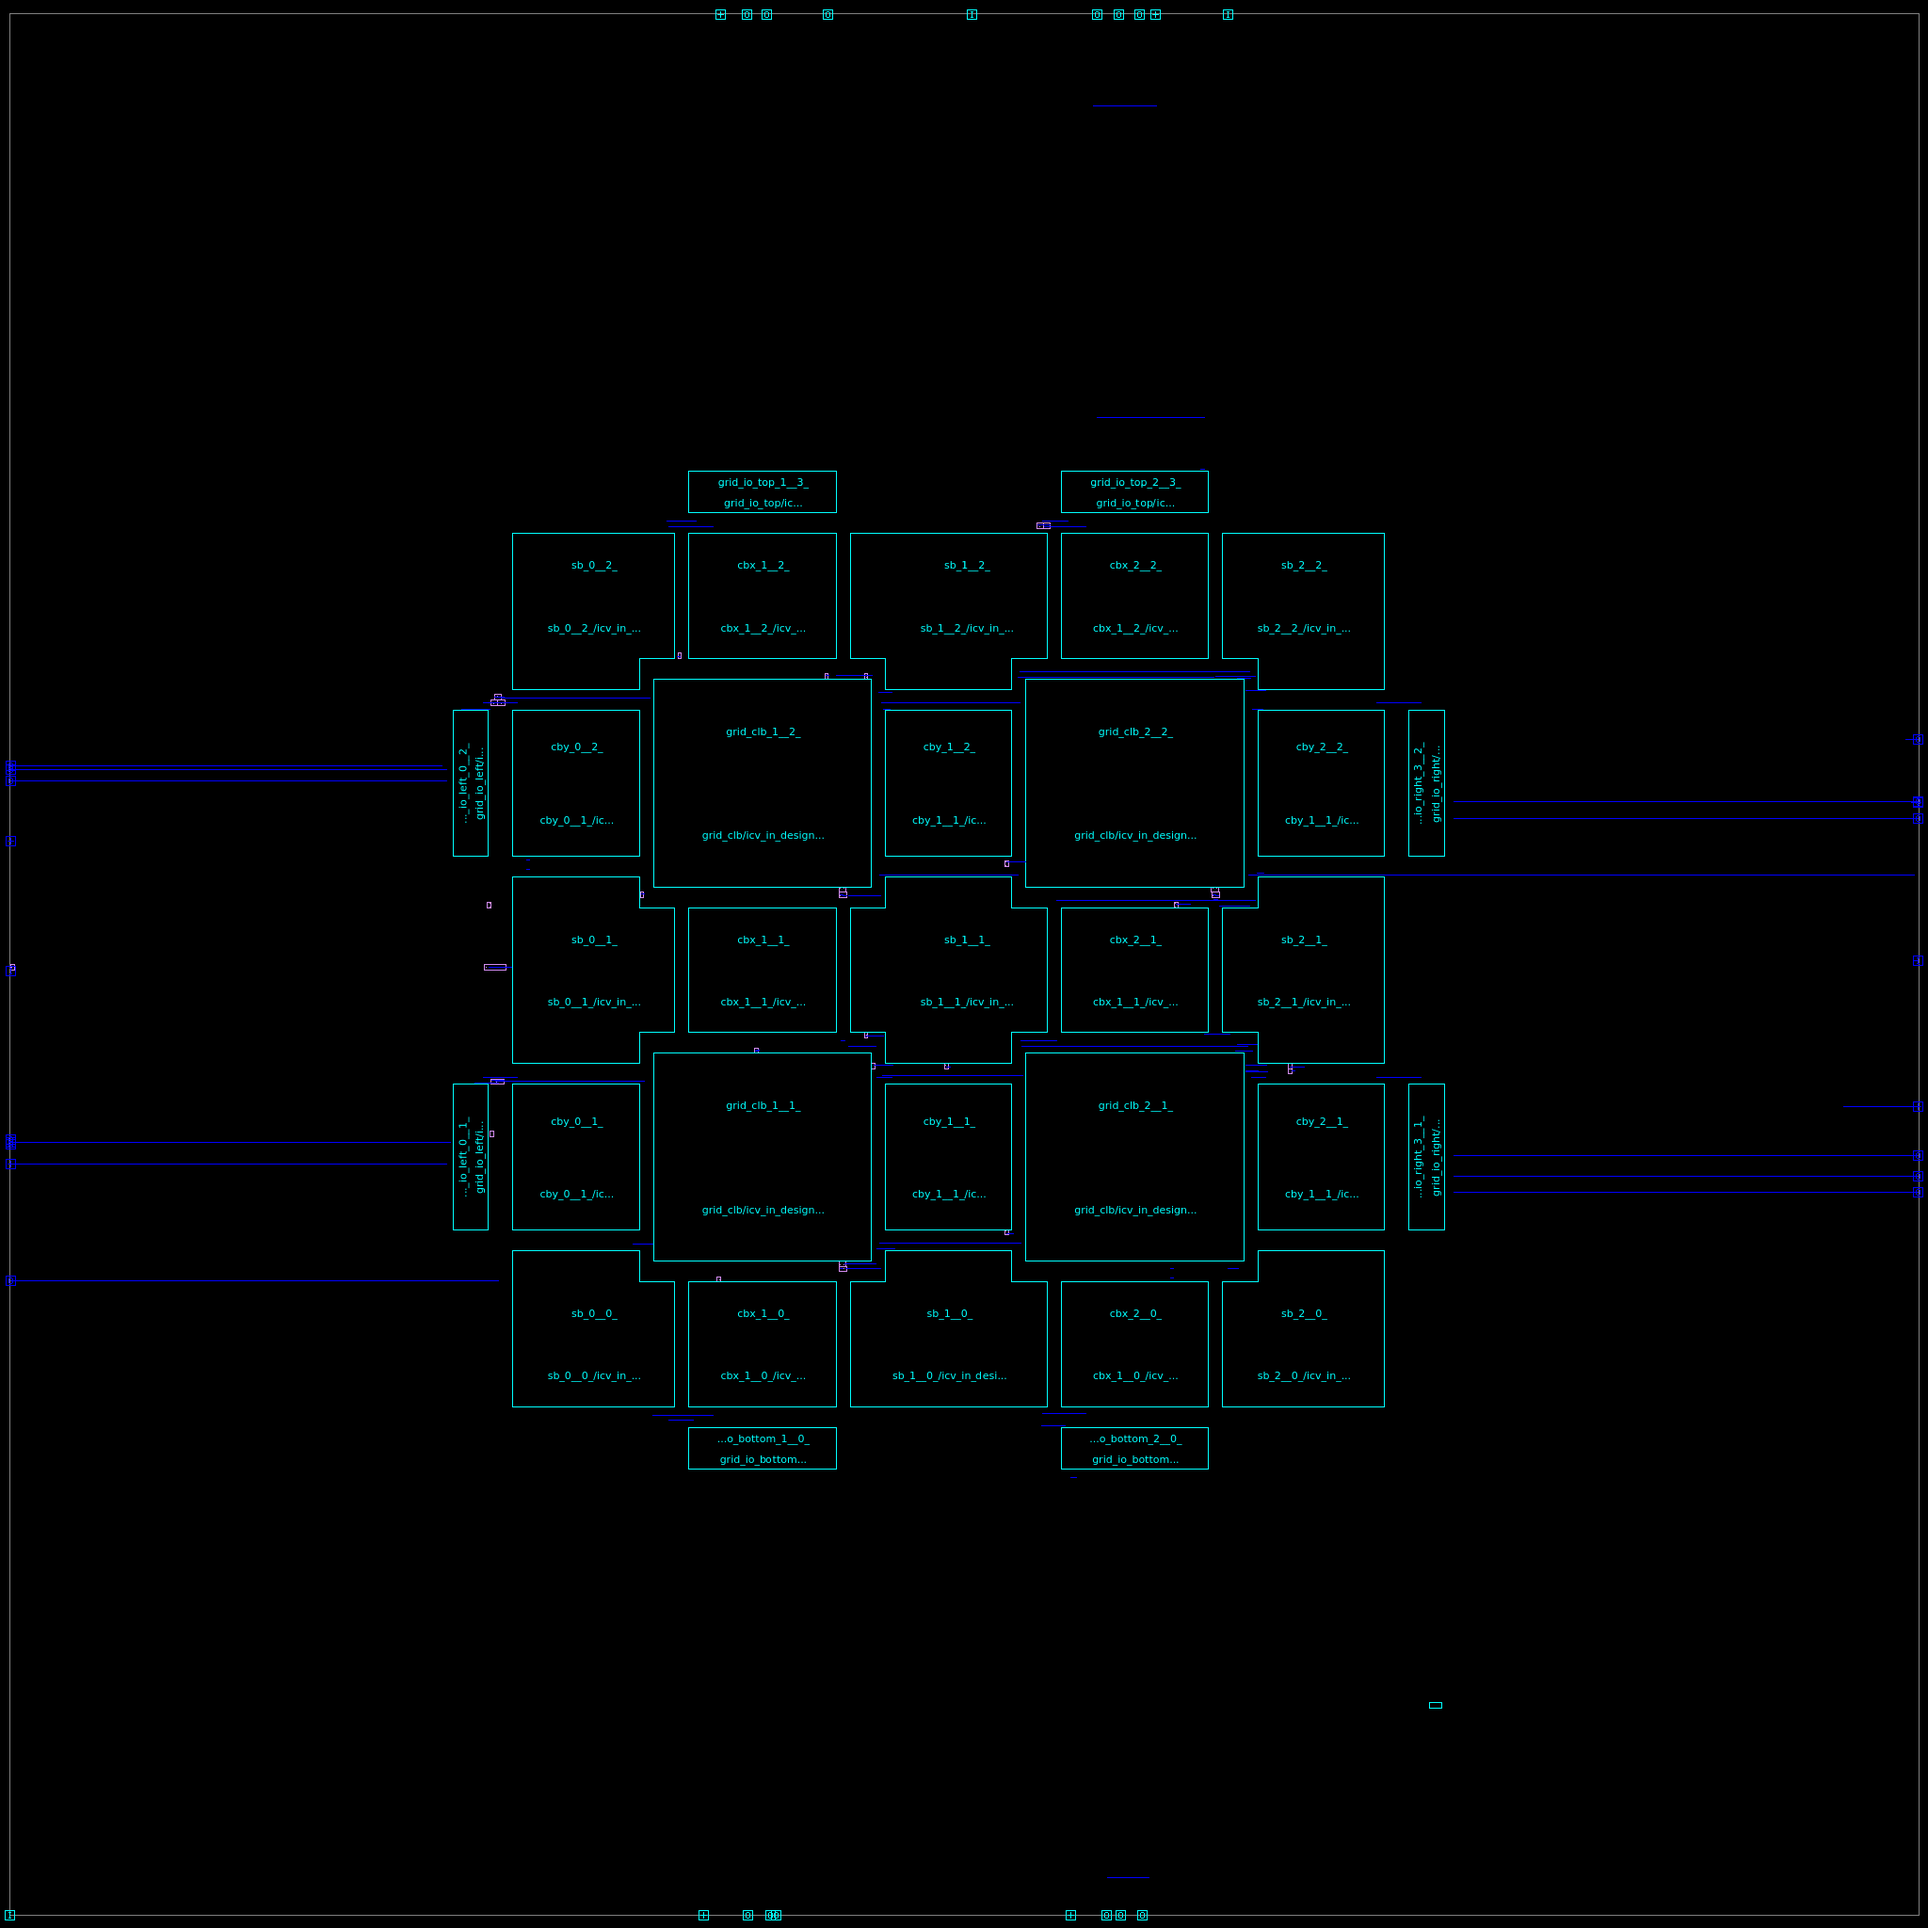
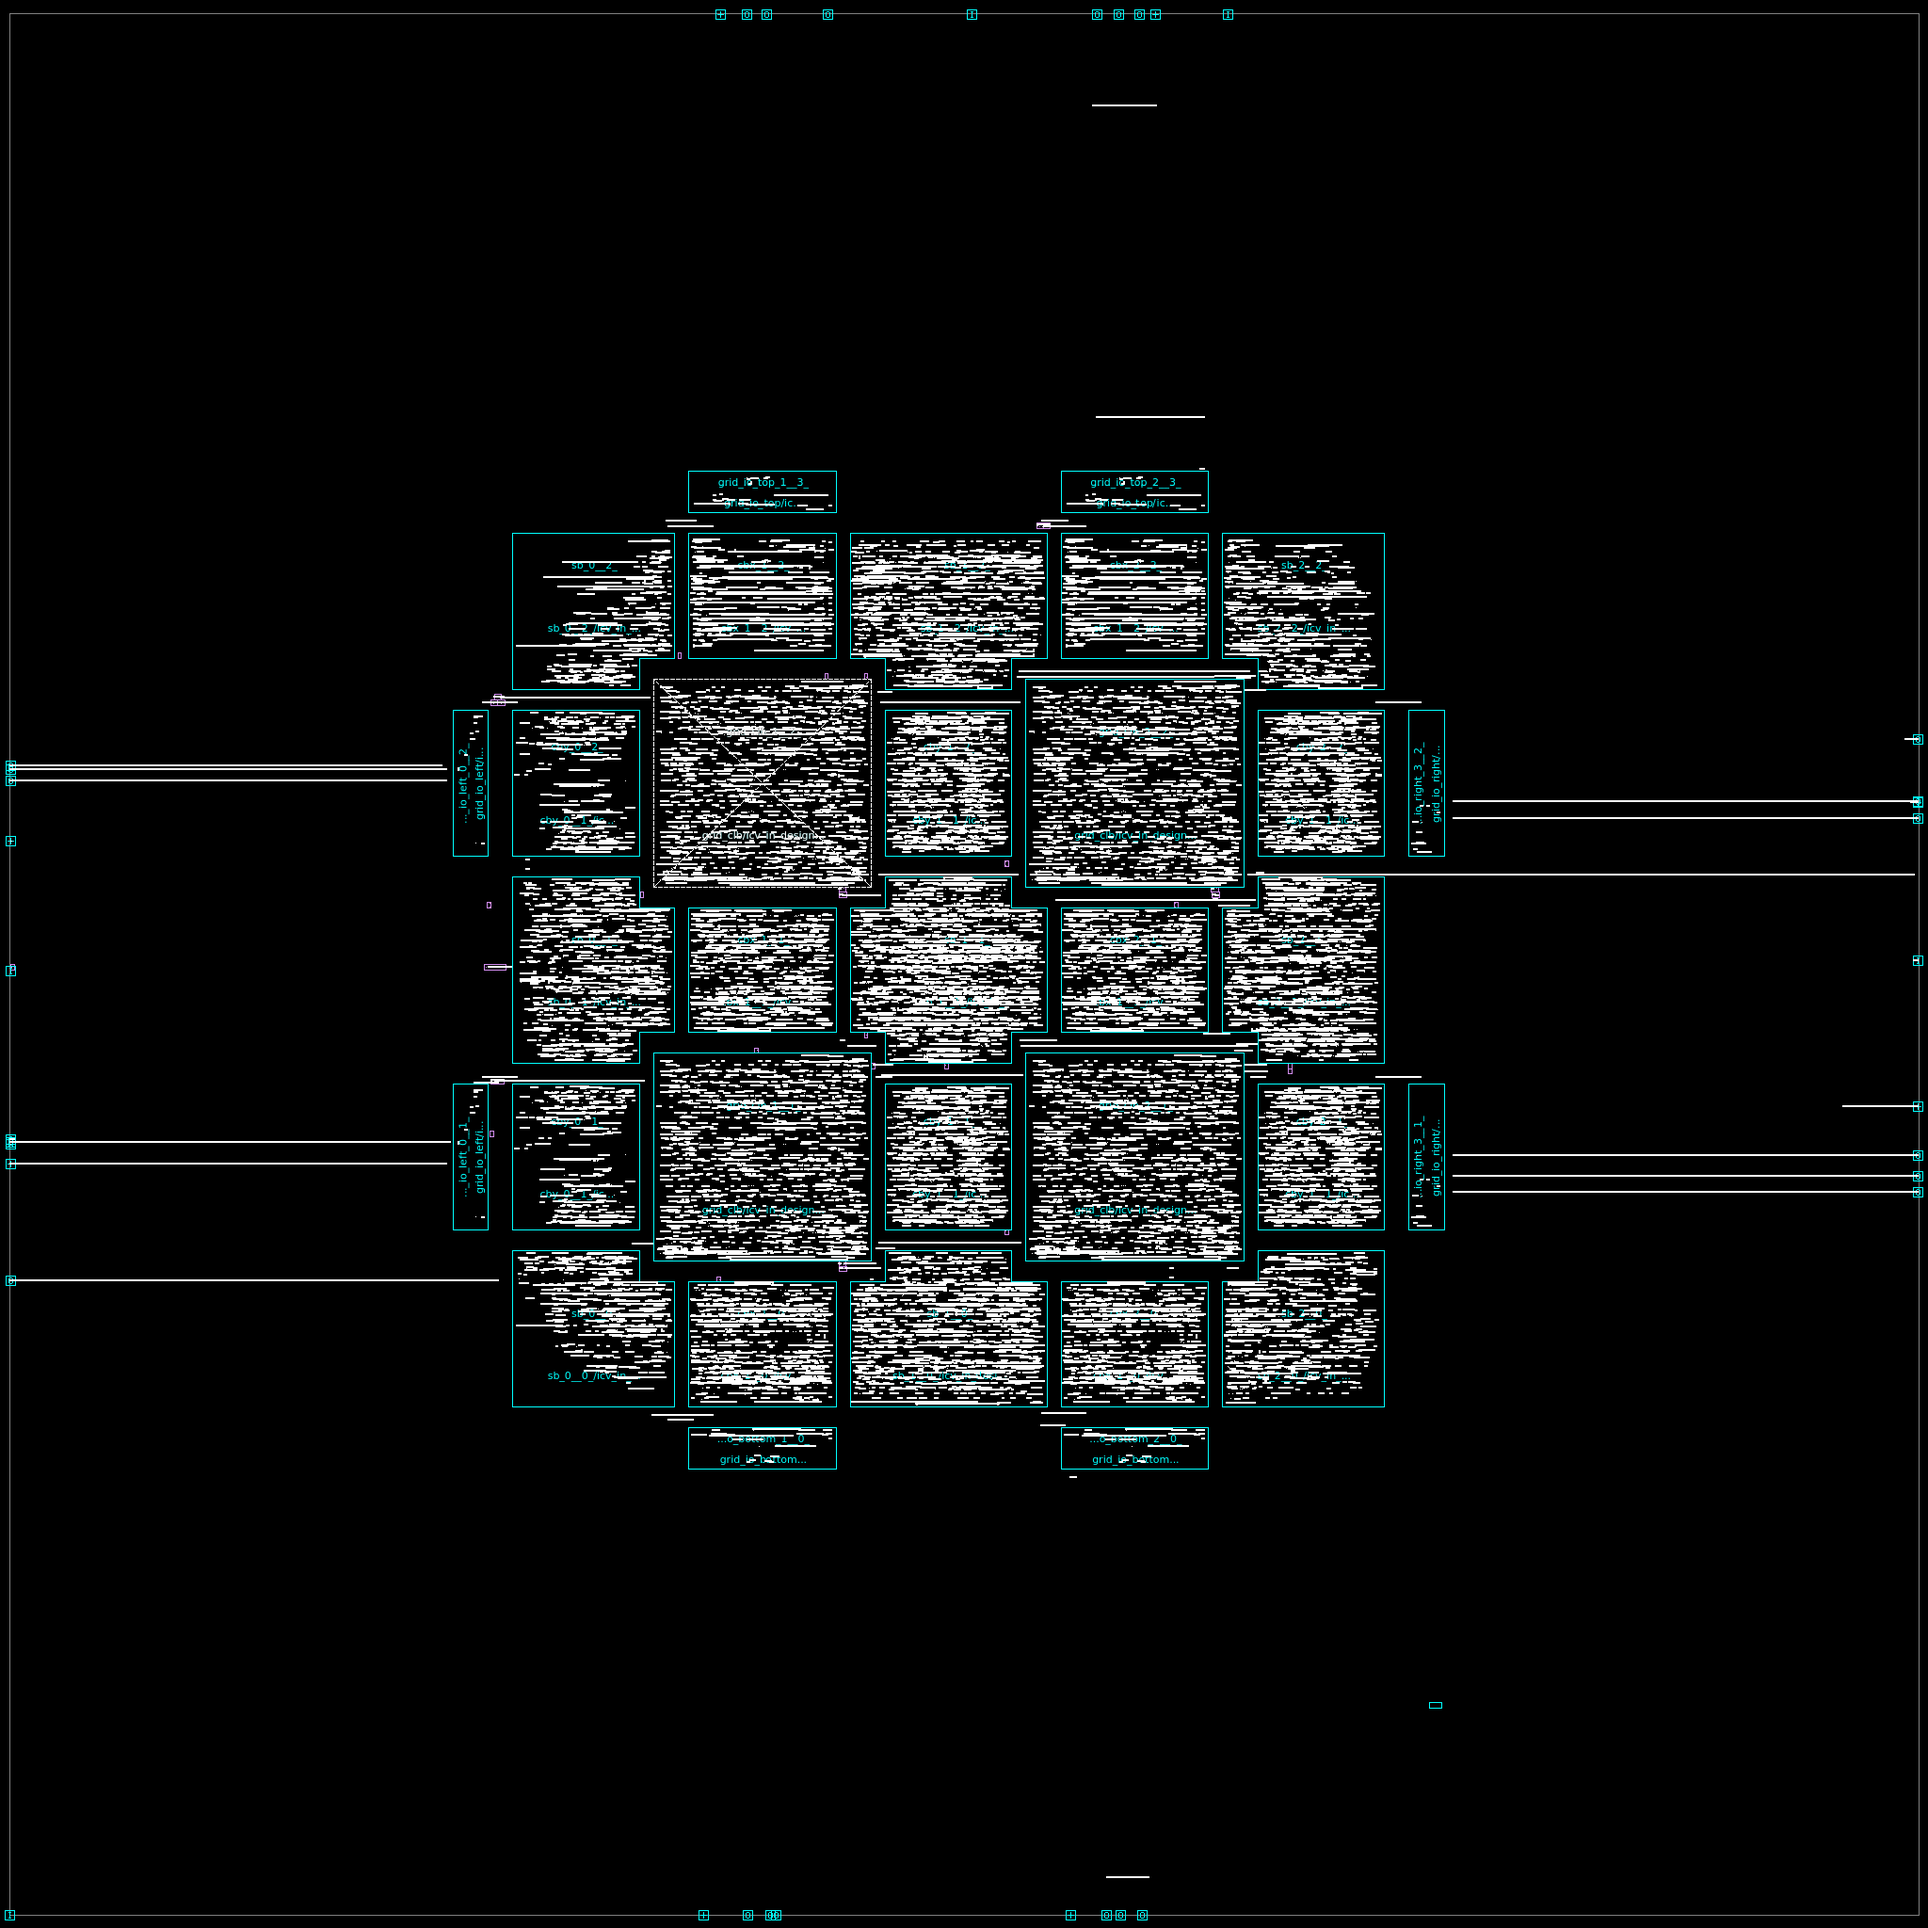
[UPDATE] Updated reports and screenshots

Changed region(s): [[0.25, 0.2812, 0.7188, 0.75], [0.9688, 0.5938, 1.0, 0.625], [0.0, 0.375, 0.0312, 0.4062]]

diff --git a/FPGA22_HIER_SKY_PNR/README.md b/FPGA22_HIER_SKY_PNR/README.md
@@ -1,7 +1,8 @@
 FPGA22_HIER_SKY_PNR
 ====================
 
-2x2 FPGA designed using hierarchical flow and `SKY130_FD_SC_HD`
+2x2 FPGA designed using hierarchical flow and `SKY130_FD_SC_HD`.
+Utilization set to 60%
 
 Directory Structure
 -------------------
